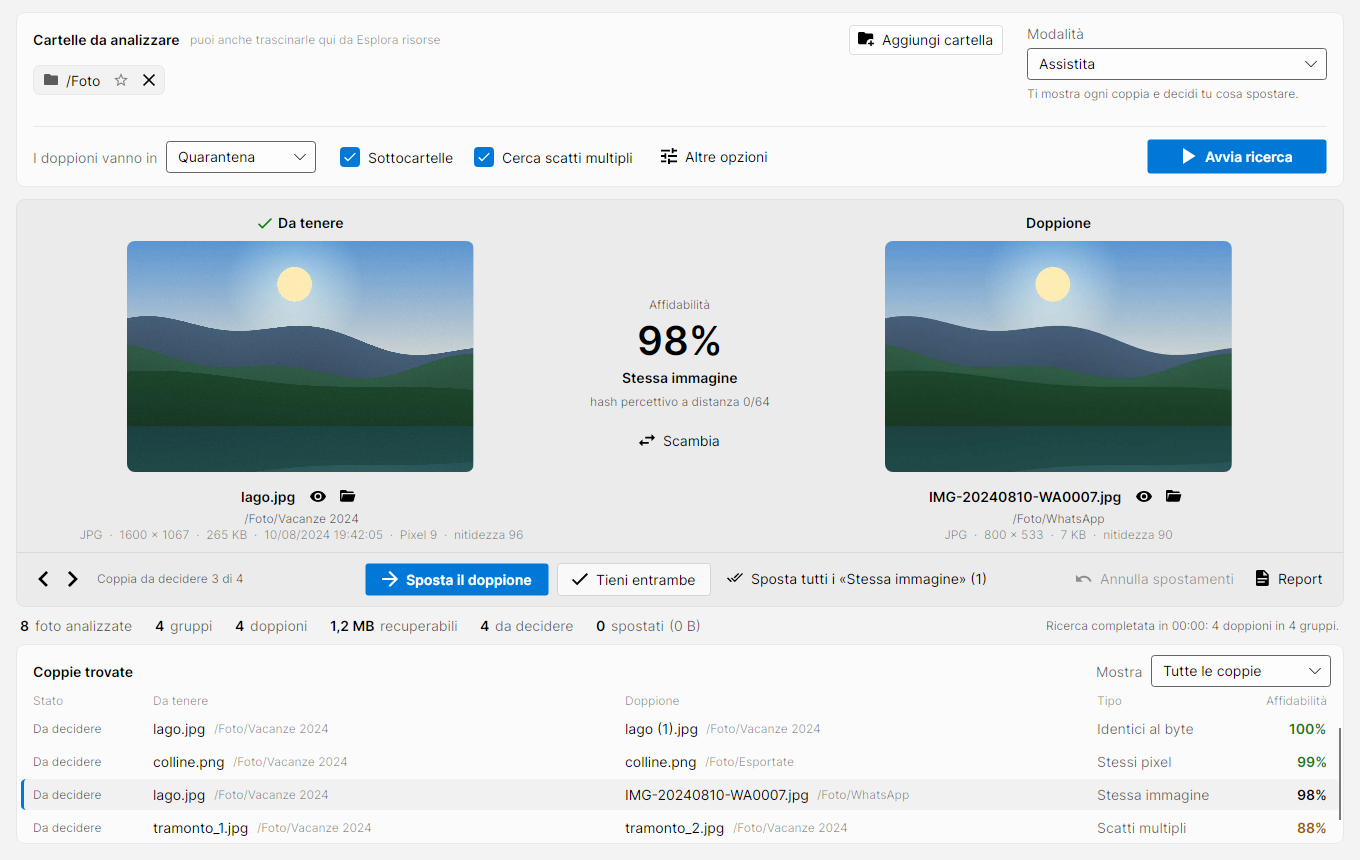
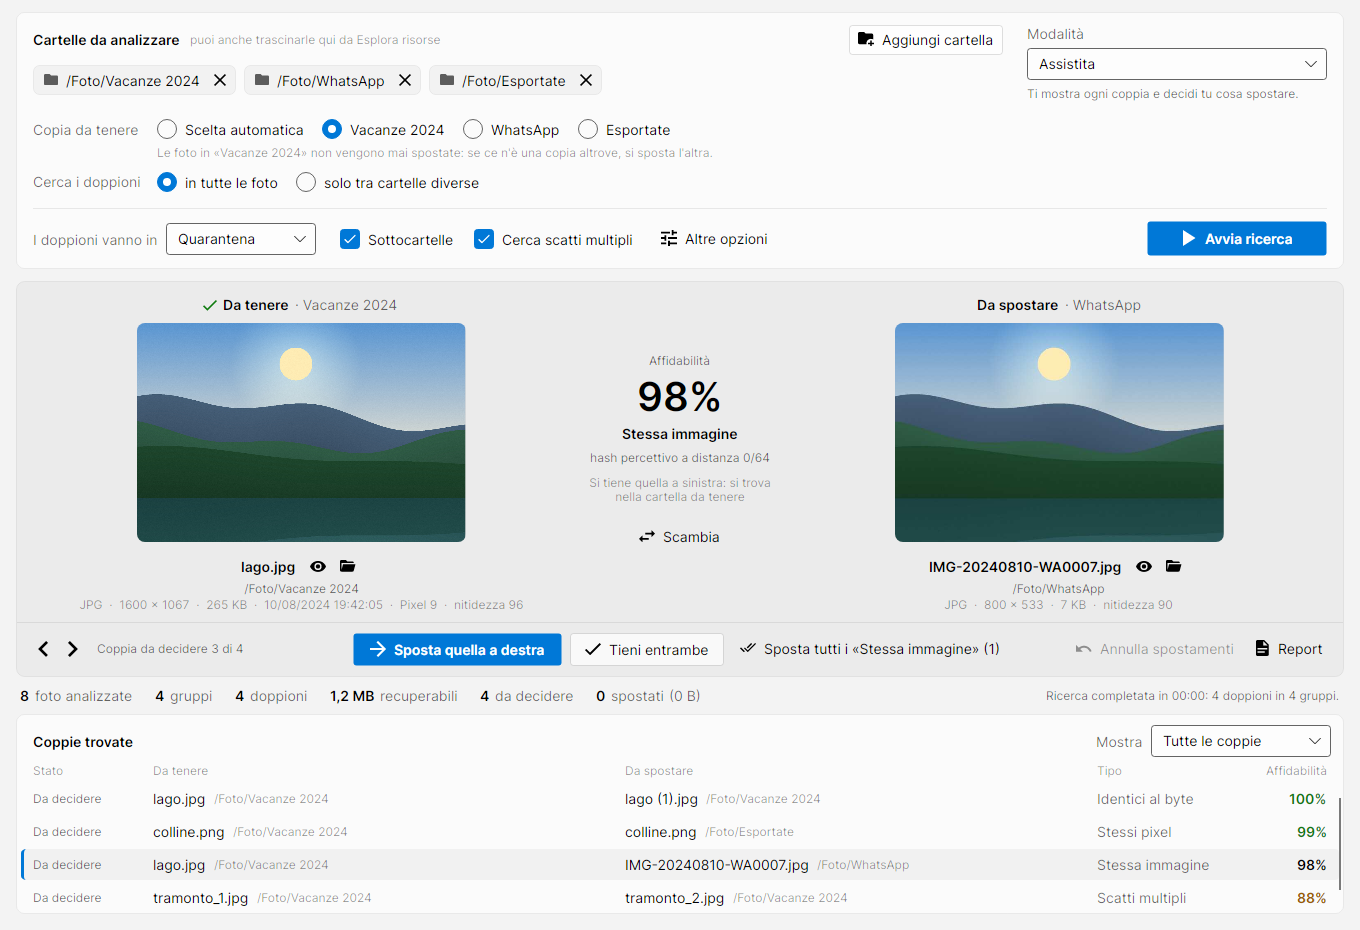
App: choose the folder to keep, compare only between folders, clearer comparison
- With two or more folders the app shows "Copia da tenere" (automatic or
  one of the folders, exclusive) and "Cerca i doppioni" (everywhere or only
  between different folders). They replace the easy-to-miss star.
- The right-hand photo is labelled "Da spostare", the button reads "Sposta
  quella a destra", each photo shows the folder it comes from, and the
  reason the left-hand copy is kept is always visible.
- Confirmations say which folder's copies stay.
- Both choices are remembered; the README screenshot shows them.

Claude-Session: https://claude.ai/code/session_01RQuXcXsgtZ5k58BKoKyK5X

diff --git a/src/DupliFoto.Gui/ViewModels/MainViewModel.cs b/src/DupliFoto.Gui/ViewModels/MainViewModel.cs
@@ -1,4 +1,5 @@
 using System.Collections.ObjectModel;
+using System.ComponentModel;
 using CommunityToolkit.Mvvm.ComponentModel;
 using CommunityToolkit.Mvvm.Input;
 using DupliFoto.Core;
@@ -43,7 +44,11 @@ public sealed partial class MainViewModel : ObservableObject
         _selectedAccelerator = Accelerators[0];
         _selectedFilter = Filters[0];
         _quarantineRoot = new ScanOptions().QuarantineRoot;
-        Folders.CollectionChanged += (_, _) => RefreshState();
+        Folders.CollectionChanged += (_, _) =>
+        {
+            RefreshFolderNames();
+            RefreshState();
+        };
         LoadSettings();
     }
 
@@ -89,6 +94,8 @@ public sealed partial class MainViewModel : ObservableObject
     ];
 
     [ObservableProperty] private bool _includeSubfolders = true;
+    /// <summary>Confronta ogni cartella solo con le altre: i doppioni dentro la stessa cartella si ignorano.</summary>
+    [ObservableProperty] [NotifyPropertyChangedFor(nameof(CompareEverywhere))] private bool _crossFolderOnly;
     [ObservableProperty] private Choice<RunMode> _selectedMode;
     [ObservableProperty] private decimal _threshold = 99;
     [ObservableProperty] private Choice<DisposalMethod> _selectedDisposal;
@@ -97,6 +104,29 @@ public sealed partial class MainViewModel : ObservableObject
     [ObservableProperty] private decimal _burstSeconds = 10;
     [ObservableProperty] private string? _modelPath;
     [ObservableProperty] private Choice<string> _selectedAccelerator;
+
+    /// <summary>L'altra scelta di <see cref="CrossFolderOnly"/>, per i pulsanti di scelta.</summary>
+    public bool CompareEverywhere
+    {
+        get => !CrossFolderOnly;
+        set => CrossFolderOnly = !value;
+    }
+
+    /// <summary>Nessuna cartella da tenere: la copia da tenere la scelgono le regole (risoluzione, metadati, nome...).</summary>
+    public bool KeepAutomatic
+    {
+        get => !Folders.Any(f => f.IsKept);
+        set
+        {
+            if (value) foreach (var f in Folders) f.IsKept = false;
+        }
+    }
+
+    public FolderItem? KeptFolder => Folders.FirstOrDefault(f => f.IsKept);
+    public string KeepHint => KeptFolder is { } k
+        ? $"Le foto in «{k.Name}» non vengono mai spostate: se ce n'è una copia altrove, si sposta l'altra."
+        : "Decide DupliFoto, coppia per coppia: nel confronto la copia da tenere è sempre a sinistra.";
+    public bool HasSeveralFolders => Folders.Count >= 2;
 
     public bool IsReadOnlyMode => SelectedMode.Value == RunMode.ReadOnly;
     public bool IsAutomaticMode => SelectedMode.Value == RunMode.Automatic;
@@ -148,12 +178,13 @@ public sealed partial class MainViewModel : ObservableObject
     [ObservableProperty] private PairItem? _selectedPair;
 
     public PhotoPanel Left { get; } = new("Da tenere", isKeeper: true);
-    public PhotoPanel Right { get; } = new("Doppione", isKeeper: false);
+    public PhotoPanel Right { get; } = new("Da spostare", isKeeper: false);
 
     public string ConfidenceText => SelectedPair?.ConfidenceText ?? "—";
     public string KindText => SelectedPair?.KindLabel ?? "";
     public string ReasonText => SelectedPair?.Member.Reason ?? "";
-    public string KeeperReasonText => SelectedPair?.Group.KeeperReason is { Length: > 0 } r ? $"Da tenere perché: {r}" : "";
+    public string KeeperReasonText => SelectedPair?.Group.KeeperReason is { Length: > 0 } r ? $"Si tiene quella a sinistra: {r}" : "";
+    public string MoveTip => $"La foto a destra va {Destination}; quella a sinistra resta dov'è.";
     public string PairNoteText => SelectedPair is { Note.Length: > 0 } p ? $"{p.StatusText}: {p.Note}" : SelectedPair?.StatusText ?? "";
     public bool IsHigh => SelectedPair?.IsHigh == true;
     public bool IsMid => SelectedPair?.IsMid == true;
@@ -230,9 +261,32 @@ public sealed partial class MainViewModel : ObservableObject
             if (File.Exists(path)) path = Path.GetDirectoryName(path)!; // trascinata una foto: si intende la sua cartella
             if (!Directory.Exists(path)) continue;
             if (Folders.Any(f => string.Equals(f.Path, path, StringComparison.OrdinalIgnoreCase))) continue;
-            Folders.Add(new FolderItem(path, f => Folders.Remove(f)));
+            var item = new FolderItem(path, f => Folders.Remove(f));
+            item.PropertyChanged += OnFolderChanged;
+            Folders.Add(item);
         }
     }
+
+    private void OnFolderChanged(object? sender, PropertyChangedEventArgs e)
+    {
+        if (e.PropertyName != nameof(FolderItem.IsKept) || sender is not FolderItem changed) return;
+        // Una sola cartella da tenere: sceglierne una toglie la scelta alle altre.
+        if (changed.IsKept)
+            foreach (var f in Folders.Where(f => !ReferenceEquals(f, changed))) f.IsKept = false;
+        OnPropertyChanged(nameof(KeepAutomatic));
+        OnPropertyChanged(nameof(KeptFolder));
+        OnPropertyChanged(nameof(KeepHint));
+    }
+
+    private void RefreshFolderNames()
+    {
+        foreach (var f in Folders)
+            f.Name = Folders.Count(o => string.Equals(o.ShortName, f.ShortName, StringComparison.OrdinalIgnoreCase)) > 1 ? f.Path : f.ShortName;
+    }
+
+    /// <summary>Il nome della cartella aggiunta da cui viene la foto; nulla se la ricerca era su una cartella sola.</summary>
+    private string? RootName(PhotoFile? f) => f is null || _options is not { Roots.Count: > 1 } ? null
+        : Folders.FirstOrDefault(x => FileScanner.SameFolder(x.Path, f.Root))?.Name ?? Path.GetFileName(f.Root);
 
     // ------------------------------------------------------------------ ricerca
 
@@ -281,7 +335,7 @@ public sealed partial class MainViewModel : ObservableObject
     [RelayCommand]
     private void Cancel() => _scanCts?.Cancel();
 
-    private ScanOptions BuildOptions()
+    internal ScanOptions BuildOptions()
     {
         var o = new ScanOptions
         {
@@ -292,12 +346,13 @@ public sealed partial class MainViewModel : ObservableObject
             Mode = SelectedMode.Value,
             AutoThreshold = Math.Max((double)Threshold, ScanOptions.AutoThresholdFloor),
             Disposal = SelectedDisposal.Value,
+            CrossFolderOnly = CrossFolderOnly && HasSeveralFolders,
         };
         if (!string.IsNullOrWhiteSpace(QuarantineRoot)) o.QuarantineRoot = Path.GetFullPath(QuarantineRoot);
         foreach (var f in Folders)
         {
             o.Roots.Add(f.Path);
-            if (f.IsPreferred) o.PreferredFolders.Add(f.Path);
+            if (f.IsKept) o.PreferredFolders.Add(f.Path);
         }
         return o;
     }
@@ -380,7 +435,7 @@ public sealed partial class MainViewModel : ObservableObject
         bool ok = await ConfirmAsync(
             $"Spostare tutti i «{p.KindLabel}»?",
             $"Sposto {Destination} i {targets.Count:N0} doppioni ancora da decidere di questo tipo ({ReportWriter.FormatBytes(bytes)}). " +
-            "In ogni gruppo resta la copia indicata come «da tenere».",
+            KeepSentence,
             $"Sposta {targets.Count:N0}");
         if (!ok) return;
         await MoveAsync(targets, automatic: false);
@@ -400,12 +455,16 @@ public sealed partial class MainViewModel : ObservableObject
             "Spostamento automatico",
             $"La modalità «{SelectedMode.Label}» può spostare da sola {targets.Count:N0} doppioni " +
             $"({ReportWriter.FormatBytes(targets.Sum(p => p.Duplicate.Size))}): {rule}. " +
-            $"Li sposto {Destination}? Le altre coppie te le mostro una per una.",
+            $"Li sposto {Destination}? {KeepSentence} Le altre coppie te le mostro una per una.",
             $"Sposta {targets.Count:N0}");
         if (!ok) return;
         await MoveAsync(targets, automatic: true);
         SelectedPair = VisiblePairs.FirstOrDefault(p => p.IsPending) ?? SelectedPair;
     }
+
+    private string KeepSentence => _options?.PreferredFolders.FirstOrDefault() is { } keep
+        ? $"Restano sempre le copie nella cartella «{Folders.FirstOrDefault(f => FileScanner.SameFolder(f.Path, keep))?.Name ?? keep}»."
+        : "In ogni coppia resta la copia a sinistra, «da tenere».";
 
     private string Destination => SelectedDisposal.Value == DisposalMethod.Quarantine
         ? $"in quarantena ({(_options ?? BuildOptions()).QuarantineRoot})"
@@ -555,9 +614,12 @@ public sealed partial class MainViewModel : ObservableObject
         foreach (var p in old) Pairs.Remove(p);
 
         var status = DefaultStatus;
-        var fresh = g.Duplicates.Select(m => moved.TryGetValue(m.File.Path, out var note)
-            ? new PairItem(g, m) { Status = PairStatus.Moved, Note = note }
-            : new PairItem(g, m) { Status = status }).ToList();
+        // Un file già spostato che con la nuova copia da tenere non è più un doppione (solo tra cartelle diverse)
+        // resta comunque nell'elenco: è stato spostato davvero.
+        var fresh = old.Where(p => p.IsMoved && !g.Duplicates.Any(m => ReferenceEquals(m.File, p.Duplicate)))
+            .Concat(g.Duplicates.Select(m => moved.TryGetValue(m.File.Path, out var note)
+                ? new PairItem(g, m) { Status = PairStatus.Moved, Note = note }
+                : new PairItem(g, m) { Status = status })).ToList();
         for (int i = 0; i < fresh.Count; i++) Pairs.Insert(at + i, fresh[i]);
 
         ApplyFilter();
@@ -590,8 +652,8 @@ public sealed partial class MainViewModel : ObservableObject
 
     partial void OnSelectedPairChanged(PairItem? value)
     {
-        Left.Show(value?.Keeper);
-        Right.Show(value?.Duplicate);
+        Left.Show(value?.Keeper, RootName(value?.Keeper));
+        Right.Show(value?.Duplicate, RootName(value?.Duplicate));
         _imagesTask = LoadImagesAsync(value);
         RefreshState();
     }
@@ -698,7 +760,8 @@ public sealed partial class MainViewModel : ObservableObject
         nameof(IsReadOnlyMode), nameof(IsAutomaticMode), nameof(ConfidenceText), nameof(KindText), nameof(ReasonText),
         nameof(KeeperReasonText), nameof(PairNoteText), nameof(IsHigh), nameof(IsMid), nameof(IsLow), nameof(CanDecide),
         nameof(CanSwap), nameof(CanNavigate), nameof(CanUndo), nameof(AutomaticCount), nameof(CanApplyAutomatic),
-        nameof(AutomaticText), nameof(ApplyAllText), nameof(DecisionHint),
+        nameof(AutomaticText), nameof(ApplyAllText), nameof(DecisionHint), nameof(KeepAutomatic), nameof(KeptFolder),
+        nameof(HasSeveralFolders), nameof(MoveTip), nameof(KeepHint),
     ];
 
     // ------------------------------------------------------------------ impostazioni salvate
@@ -707,8 +770,10 @@ public sealed partial class MainViewModel : ObservableObject
     {
         var s = _store.Load();
         AddFolders(s.Folders.Select(f => f.Path));
-        foreach (var f in Folders)
-            f.IsPreferred = s.Folders.Any(x => x.Preferred && string.Equals(x.Path, f.Path, StringComparison.OrdinalIgnoreCase));
+        // Una sola cartella da tenere (le versioni 0.1 permettevano più cartelle "preferite": vale la prima).
+        if (s.Folders.FirstOrDefault(x => x.Preferred) is { } kept)
+            Folders.FirstOrDefault(f => string.Equals(f.Path, kept.Path, StringComparison.OrdinalIgnoreCase))?.IsKept = true;
+        CrossFolderOnly = s.CrossFolderOnly;
         SelectedMode = Modes.FirstOrDefault(m => m.Value == s.Mode) ?? Modes[0];
         Threshold = (decimal)Math.Clamp(s.Threshold, ScanOptions.AutoThresholdFloor, 100);
         SelectedDisposal = Disposals.FirstOrDefault(d => d.Value == s.Disposal) ?? Disposals[0];
@@ -722,7 +787,8 @@ public sealed partial class MainViewModel : ObservableObject
 
     public void SaveSettings() => _store.Save(new GuiSettings
     {
-        Folders = Folders.Select(f => new GuiSettings.FolderSetting(f.Path, f.IsPreferred)).ToList(),
+        Folders = Folders.Select(f => new GuiSettings.FolderSetting(f.Path, f.IsKept)).ToList(),
+        CrossFolderOnly = CrossFolderOnly,
         Mode = SelectedMode.Value,
         Threshold = (double)Threshold,
         Disposal = SelectedDisposal.Value,

diff --git a/tests/DupliFoto.Gui.Tests/MainViewModelTests.cs b/tests/DupliFoto.Gui.Tests/MainViewModelTests.cs
@@ -146,5 +146,75 @@ public sealed class MainViewModelTests : IDisposable
         Assert.Equal(1200, vm.Left.Image!.PixelSize.Width);
         Assert.EndsWith("%", vm.ConfidenceText);
     }
+
+    [AvaloniaFact]
+    public void Only_one_folder_can_be_the_one_to_keep()
+    {
+        var vm = new MainViewModel(new SettingsStore(null)) { CachePath = null };
+        vm.AddFolders([_photos.Photos, _photos.P("WhatsApp")]);
+        Assert.True(vm.KeepAutomatic);
+        Assert.True(vm.HasSeveralFolders);
+        Assert.Equal(["Foto", "WhatsApp"], vm.Folders.Select(f => f.Name));
+
+        vm.Folders[1].IsKept = true;
+        Assert.False(vm.KeepAutomatic);
+        Assert.Same(vm.Folders[1], vm.KeptFolder);
+
+        vm.Folders[0].IsKept = true;                                       // un'altra cartella toglie la scelta alla prima
+        Assert.False(vm.Folders[1].IsKept);
+        Assert.Equal([_photos.Photos], vm.BuildOptions().PreferredFolders);
+
+        vm.KeepAutomatic = true;
+        Assert.All(vm.Folders, f => Assert.False(f.IsKept));
+        Assert.Empty(vm.BuildOptions().PreferredFolders);
+
+        vm.Folders[1].IsKept = true;
+        vm.Folders[1].RemoveCommand.Execute(null);                         // tolta la cartella da tenere: si torna alla scelta automatica
+        Assert.True(vm.KeepAutomatic);
+        Assert.False(vm.HasSeveralFolders);
+        vm.CrossFolderOnly = true;
+        Assert.False(vm.BuildOptions().CrossFolderOnly);                   // con una cartella sola non c'è nulla da confrontare
+    }
+
+    [AvaloniaFact]
+    public void Keep_folder_and_comparison_are_remembered()
+    {
+        var store = new SettingsStore(Path.Combine(_photos.Root, "gui.json"));
+        var vm = new MainViewModel(store) { CachePath = null };
+        vm.AddFolders([_photos.Photos, _photos.P("WhatsApp")]);
+        vm.Folders[1].IsKept = true;
+        vm.CrossFolderOnly = true;
+        vm.SaveSettings();
+
+        var again = new MainViewModel(store) { CachePath = null };
+        Assert.Equal([false, true], again.Folders.Select(f => f.IsKept));
+        Assert.True(again.CrossFolderOnly);
+        Assert.False(again.CompareEverywhere);
+    }
+
+    /// <summary>
+    /// "Foto" e la sua sottocartella "WhatsApp" aggiunte entrambe, si tiene WhatsApp, solo tra cartelle diverse:
+    /// le coppie sono tutte "copia in WhatsApp / copia in Foto", e i doppioni interni a Foto non compaiono.
+    /// </summary>
+    [AvaloniaFact]
+    public async Task Keeping_one_folder_compares_it_with_the_other()
+    {
+        var vm = NewViewModel(_photos, RunMode.Assisted);
+        vm.AddFolders([_photos.P("WhatsApp")]);
+        vm.Folders[1].IsKept = true;
+        vm.CrossFolderOnly = true;
+        await vm.StartCommand.ExecuteAsync(null);
+
+        Assert.Equal(["mare (1).jpg", "mare.jpg"], vm.Pairs.Select(p => p.DuplicateName).Order());
+        Assert.All(vm.Pairs, p => Assert.Equal("IMG-20260810-WA0001.jpg", p.KeeperName));
+        Assert.Equal("WhatsApp", vm.Left.RootName);
+        Assert.Equal("Foto", vm.Right.RootName);
+        Assert.Equal("Da spostare", vm.Right.Role);
+        Assert.Equal("Si tiene quella a sinistra: si trova nella cartella da tenere", vm.KeeperReasonText);
+
+        await vm.MoveDuplicateCommand.ExecuteAsync(null);
+        Assert.True(File.Exists(_photos.P("WhatsApp/IMG-20260810-WA0001.jpg")));  // la cartella da tenere non si tocca
+        Assert.Equal(1, vm.MovedCount);
+    }
 }
 

diff --git a/src/DupliFoto.Gui/ViewModels/Items.cs b/src/DupliFoto.Gui/ViewModels/Items.cs
@@ -18,8 +18,15 @@ public sealed partial class FolderItem(string path, Action<FolderItem> remove) :
 {
     public string Path { get; } = path;
 
-    /// <summary>Nei doppioni vince la copia che sta in una cartella preferita.</summary>
-    [ObservableProperty] private bool _isPreferred;
+    /// <summary>L'ultima cartella del percorso ("Catalogate"); per un'unità intera, il percorso.</summary>
+    public string ShortName { get; } =
+        System.IO.Path.GetFileName(System.IO.Path.TrimEndingDirectorySeparator(path)) is { Length: > 0 } n ? n : path;
+
+    /// <summary>Come si chiama nell'interfaccia: il nome breve, o il percorso intero se due cartelle si chiamano uguale.</summary>
+    [ObservableProperty] private string _name = "";
+
+    /// <summary>Le copie che stanno in questa cartella si tengono sempre. Al massimo una cartella.</summary>
+    [ObservableProperty] private bool _isKept;
 
     [RelayCommand]
     private void Remove() => remove(this);
@@ -85,6 +92,8 @@ public sealed partial class PhotoPanel(string role, bool isKeeper) : ObservableO
 {
     public string Role { get; } = role;
     public bool IsKeeper { get; } = isKeeper;
+    /// <summary>La cartella aggiunta da cui viene la foto, quando le cartelle sono più di una.</summary>
+    [ObservableProperty] private string _rootName = "";
 
     [ObservableProperty] [NotifyPropertyChangedFor(nameof(HasPhoto))] private string? _path;
     [ObservableProperty] private string _fileName = "";
@@ -97,9 +106,10 @@ public sealed partial class PhotoPanel(string role, bool isKeeper) : ObservableO
     public bool HasPhoto => Path is not null;
     public bool ShowPlaceholder => Image is null && !IsLoading;
 
-    public void Show(PhotoFile? f)
+    public void Show(PhotoFile? f, string? rootName = null)
     {
         Path = f?.Path;
+        RootName = rootName ?? "";
         Image = null;
         Placeholder = "";
         if (f is null)

diff --git a/tests/DupliFoto.Gui.Tests/ScreenshotTests.cs b/tests/DupliFoto.Gui.Tests/ScreenshotTests.cs
@@ -56,7 +56,7 @@ public sealed class ScreenshotTests : IDisposable
 
         var vm = MainViewModelTests.NewViewModel(_photos, RunMode.Assisted);
         vm.AddFolders([Path.Combine(_photos.Photos, "WhatsApp")]);
-        vm.Folders[0].IsPreferred = true;
+        vm.Folders[0].IsKept = true;
         var window = Show(vm);
         Save(window, $"1-benvenuto-{theme}");
 
@@ -132,10 +132,11 @@ public sealed class ScreenshotTests : IDisposable
 
         Application.Current!.RequestedThemeVariant = ThemeVariant.Light;
         var vm = new MainViewModel(new SettingsStore(null)) { CachePath = null };
-        vm.AddFolders([root]);
+        vm.AddFolders([holidays, whatsapp, exported]);
+        vm.Folders[0].IsKept = true;
         vm.SelectedMode = vm.Modes.Single(m => m.Value == RunMode.Assisted);
         vm.QuarantineRoot = Path.Combine(Path.GetTempPath(), "DupliFoto-Quarantena");
-        var window = new MainWindow { DataContext = vm, WindowState = Avalonia.Controls.WindowState.Normal, Width = 1360, Height = 860 };
+        var window = new MainWindow { DataContext = vm, WindowState = Avalonia.Controls.WindowState.Normal, Width = 1360, Height = 930 };
         window.Show();
         await vm.StartCommand.ExecuteAsync(null);
         vm.SelectedPair = vm.Pairs.Single(p => p.DuplicateName == "IMG-20240810-WA0007.jpg");

diff --git a/src/DupliFoto.Gui/Services/SettingsStore.cs b/src/DupliFoto.Gui/Services/SettingsStore.cs
@@ -13,11 +13,13 @@ public sealed class GuiSettings
     public DisposalMethod Disposal { get; set; } = DisposalMethod.Quarantine;
     public string? QuarantineRoot { get; set; }
     public bool IncludeSubfolders { get; set; } = true;
+    public bool CrossFolderOnly { get; set; }
     public bool DetectBursts { get; set; } = true;
     public double BurstSeconds { get; set; } = 10;
     public string? ModelPath { get; set; }
     public string Accelerator { get; set; } = "auto";
 
+    /// <summary>Una cartella; <c>Preferred</c> = le copie che stanno qui si tengono sempre.</summary>
     public sealed record FolderSetting(string Path, bool Preferred);
 }
 
